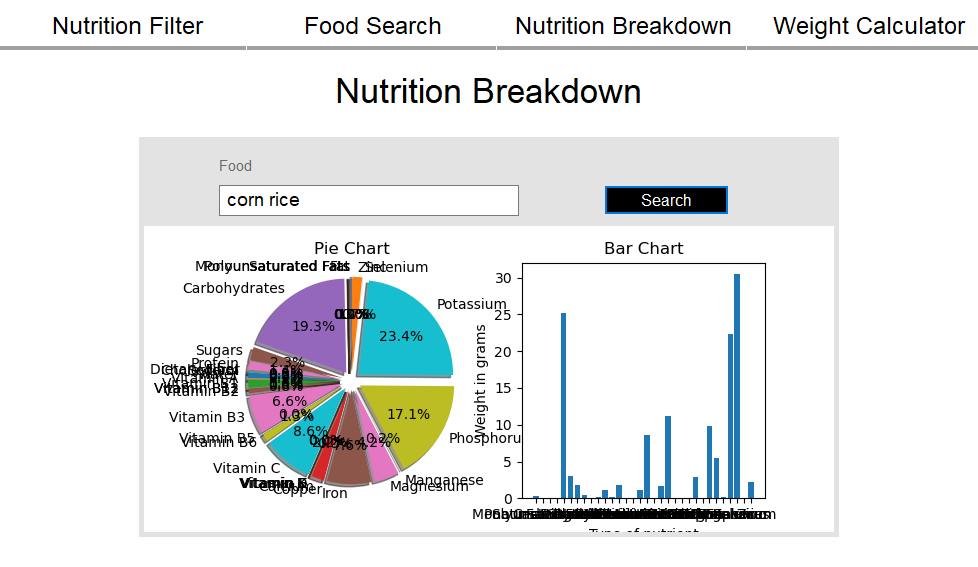
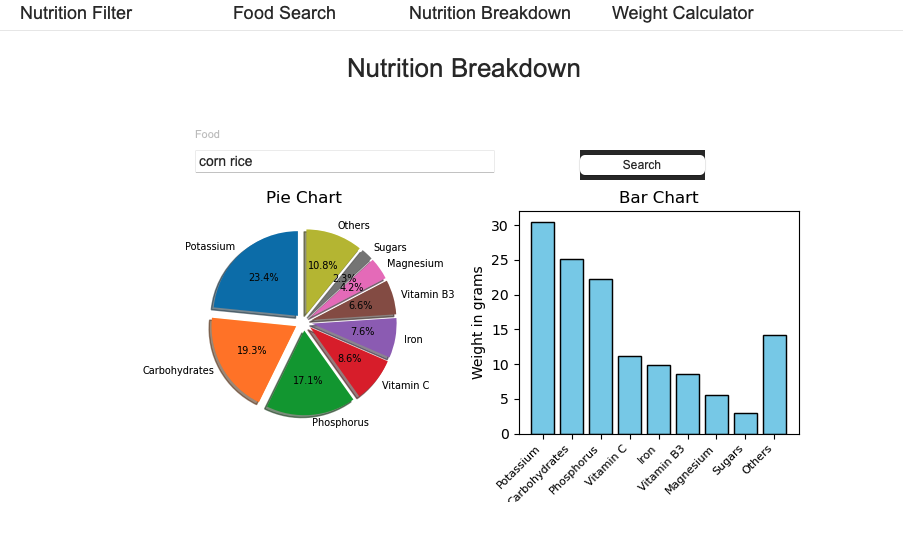
Plot Function Refactorized

diff --git a/run_app.py b/run_app.py
@@ -188,11 +188,16 @@ class MainFrame(MFrame):
         search = self.m_txtNB.GetValue()
         data = self.table.data
 
-        selected_food = nutrition_breakdown(search, data)
-        ref_food = selected_food.iloc[2:-1]
+        nutrition = nutrition_breakdown(search, data).iloc[2:-1].reset_index()
+        nutrition.columns = ['Nutrient', 'NutritionValue']
+        nutrition = nutrition.sort_values(by='NutritionValue', ascending=False)
 
-        figure = self.plot_pie_chart(ref_food)
-
+        
+        nutritionTop8 = pd.concat([nutrition.head(8), 
+                        pd.DataFrame({'Nutrient': ['Others'], 
+                                'NutritionValue': [nutrition['NutritionValue'][8:].sum()]})], 
+                                ignore_index=True)
+        figure = self.plot_pie_chart(nutritionTop8.set_index('Nutrient')['NutritionValue'])
         h, w = self.m_NBGraph.GetSize()
         figure.set_size_inches(h / figure.get_dpi(), w / figure.get_dpi())
         canvas = FigureCanvasWxAgg(self.m_NBGraph, -1, figure)
@@ -200,19 +205,22 @@ class MainFrame(MFrame):
         self.Layout()
 
     def plot_pie_chart(self, data):
-        explode = [0.1, 0.1, 0.1, 0.1, 0.1, 0.1, 0.1, 0.1, 0.1, 0.1, 0.1, 0.1, 0.1, 0.1, 0.1, 0.1, 0.1, 0.1, 0.1, 0.1, 0.1, 0.1, 0.1, 0.1, 0.1, 0.1, 0.1, 0.1, 0.1, 0.1, 0.1, 0.1]
-        figure_score, (ax1, ax2) = plt.subplots(nrows=1, ncols=2)
+            explode = [0.1] * len(data) 
+            figure_score, (ax1, ax2) = plt.subplots(nrows=1, ncols=2, figsize=(10, 5))
 
-        ax1.pie(data, labels=data.index, autopct='%1.1f%%', startangle=90, explode=explode, shadow=True)
-        ax1.set_title(u'Pie Chart')
-        ax1.axis('on')
+            ax1.pie(data, labels=data.index, autopct='%1.1f%%', startangle=90, shadow=True, explode=explode, textprops={'fontsize': 7})
+            ax1.set_title('Pie Chart')
+            ax1.axis('equal') 
 
-        ax2.bar(data.index, data)
-        ax2.set_title('Bar Chart')
-        ax2.set_xlabel(u'Type of nutrient')
-        ax2.set_ylabel(u'Weight in grams')
+            ax2.bar(data.index, data, color='skyblue', edgecolor='black')
+            ax2.set_title('Bar Chart')
+            ax2.set_xlabel('Type of Nutrient')
+            ax2.set_ylabel('Weight in grams')
+            ax2.set_xticks(range(len(data)))
+            ax2.set_xticklabels(data.index, rotation=45, ha='right', fontsize=8)
 
-        return figure_score
+            plt.tight_layout()
+            return figure_score
 
     def f_WCCalculate( self, event ):
         search = self.m_txtWC.GetValue()
